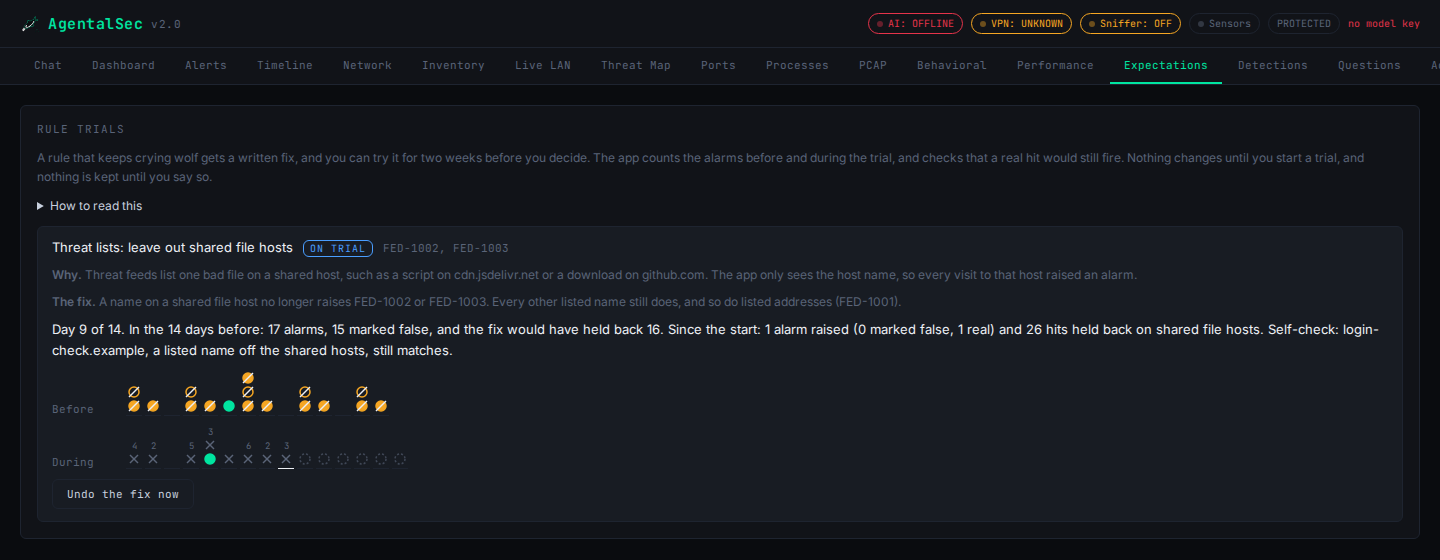
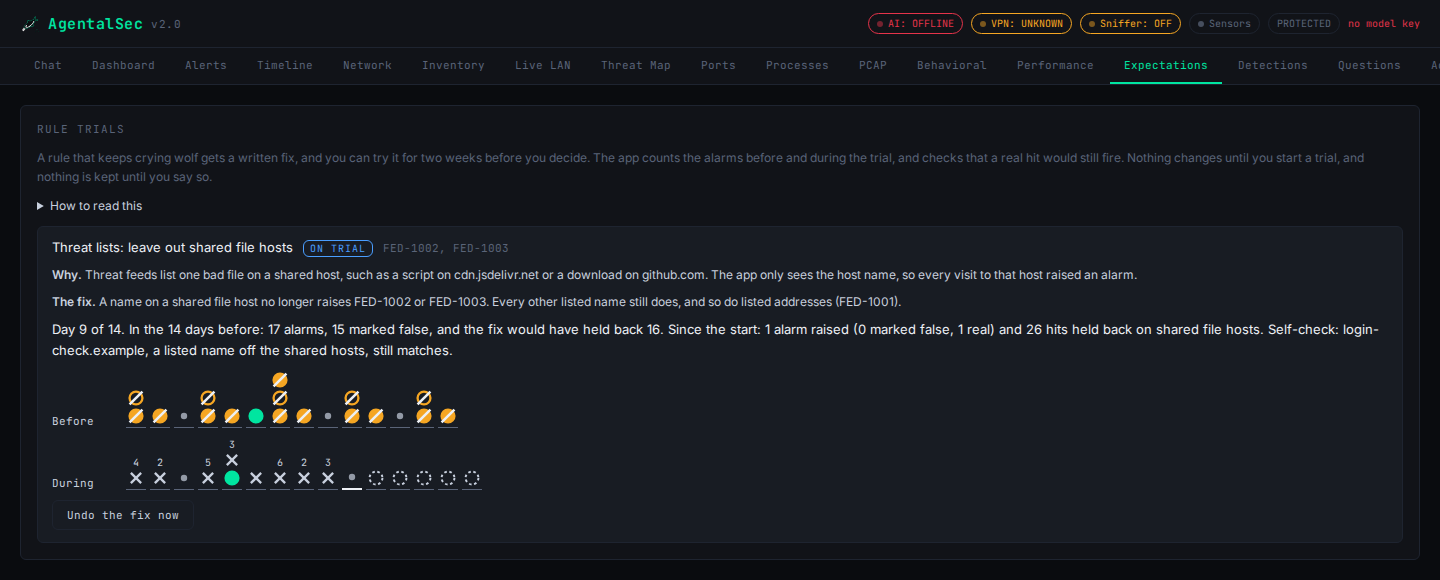
Rule trials: bigger, brighter day marks and readable text
- The alarm dots, the line through a held-back alarm, the crosses and
  the future-day rings are drawn larger and bolder.
- A day when nothing fired shows a small grey dot, so the rows read as
  days; the legend says so.
- The Why and The fix text, the Before and During labels and the held
  counts use the normal text colour instead of dim grey.
- Screenshot in docs/TOUR.md updated.

diff --git a/ui/index.html b/ui/index.html
@@ -1663,11 +1663,13 @@
   .trial.st-kept .trial-pill { color: var(--green); border-color: var(--green); }
   .trial-rules { font-family: var(--mono); font-size: 11px; color: var(--text-dim); }
   .trial-row { display: grid; grid-template-columns: 64px 1fr; gap: 10px; align-items: end; margin-top: 10px; }
-  .trial-days { display: flex; gap: 3px; align-items: flex-end; flex-wrap: wrap; }
-  .trial-day { display: inline-flex; flex-direction: column-reverse; align-items: center; min-width: 16px;
-               min-height: 18px; border-bottom: 1px solid var(--border); padding-bottom: 2px; }
-  .trial-day.today { border-bottom-color: var(--text-hi); }
-  .trial-more { font-family: var(--mono); font-size: 9px; color: var(--text-dim); }
+  .trial-days { display: flex; gap: 4px; align-items: flex-end; flex-wrap: wrap; }
+  .trial-day { display: inline-flex; flex-direction: column-reverse; align-items: center; min-width: 20px;
+               min-height: 18px; border-bottom: 1px solid var(--text-dim); padding-bottom: 2px; }
+  .trial-day.today { border-bottom: 2px solid var(--text-hi); }
+  .trial .exp-note { color: var(--text); }
+  .trial-row .fa-day { color: var(--text); }
+  .trial-more { font-family: var(--mono); font-size: 10px; color: var(--text); }
   .trial .btn { margin-top: 10px; margin-right: 6px; }
   @media (prefers-reduced-motion: reduce) {
     .exp-ring, .exp-dot-broken, .wall-dot { animation: none !important; }
@@ -2679,8 +2681,8 @@
         <summary>How to read this</summary>
         Each column is a day, today on the right. A filled amber dot is an alarm you marked false, a green
         dot one you marked real, and an amber ring one still waiting for your verdict. A line through a dot
-        means the fix holds that alarm back. During the trial, a grey cross is a hit the fix held back, and
-        a dashed ring is a day still to come.
+        means the fix holds that alarm back. A small grey dot is a day when nothing fired. During the trial,
+        a cross is a hit the fix held back, and a dashed ring is a day still to come.
       </details>
       <div id="trials"></div>
     </div>
@@ -8744,25 +8746,28 @@ function _trialDot(d) {
   const tip = `${d.rule}, ${d.entity}: ${(d.names || []).join(', ')}. `
     + (d.verdict ? 'Verdict: ' + (FA_WORD[d.verdict] || d.verdict) + '. ' : 'No verdict yet. ')
     + (d.held ? 'The fix holds this back.' : 'The fix lets this through.');
-  return `<svg width="14" height="14" viewBox="0 0 14 14"><title>${esc(tip)}</title>`
-    + `<circle cx="7" cy="7" r="5" fill="${fill}" stroke="${stroke}" stroke-width="1.5"${dash}/>`
-    + (d.held ? '<line x1="2" y1="12" x2="12" y2="2" stroke="var(--text-hi)" stroke-width="1.5"/>' : '')
+  return `<svg width="18" height="18" viewBox="0 0 14 14"><title>${esc(tip)}</title>`
+    + `<circle cx="7" cy="7" r="5" fill="${fill}" stroke="${stroke}" stroke-width="1.8"${dash}/>`
+    + (d.held ? '<line x1="2" y1="12" x2="12" y2="2" stroke="var(--text-hi)" stroke-width="2"/>' : '')
     + `</svg>`;
 }
 
 function _trialCol(day, during, today) {
   const label = new Date(day.day + 'T12:00:00').toLocaleDateString(undefined, { day: 'numeric', month: 'short' });
   if (during && day.future) {
-    return `<span class="trial-day" title="${esc(label)}, still to come"><svg width="14" height="14" viewBox="0 0 14 14">`
-      + `<circle cx="7" cy="7" r="5" fill="none" stroke="var(--text-dim)" stroke-width="1.5" stroke-dasharray="2 2" opacity="0.6"/></svg></span>`;
+    return `<span class="trial-day" title="${esc(label)}, still to come"><svg width="18" height="18" viewBox="0 0 14 14">`
+      + `<circle cx="7" cy="7" r="5" fill="none" stroke="var(--text)" stroke-width="1.5" stroke-dasharray="2 2"/></svg></span>`;
   }
   const dots = day.dots || [];
-  let inner = dots.slice(0, 5).map(_trialDot).join('');
+  // A day when nothing fired gets a small grey dot, so the row reads as days.
+  let inner = dots.length ? dots.slice(0, 5).map(_trialDot).join('')
+    : (during && day.held ? '' : '<svg width="18" height="18" viewBox="0 0 14 14"><title>Nothing fired</title>'
+       + '<circle cx="7" cy="7" r="2.5" fill="var(--text)" opacity="0.7"/></svg>');
   if (dots.length > 5) inner += `<span class="trial-more">+${dots.length - 5}</span>`;
   if (during && day.held) {
-    inner += `<svg width="14" height="14" viewBox="0 0 14 14"><title>${_n(day.held, 'hit')} held back</title>`
-      + '<line x1="3" y1="3" x2="11" y2="11" stroke="var(--text-dim)" stroke-width="1.5"/>'
-      + '<line x1="11" y1="3" x2="3" y2="11" stroke="var(--text-dim)" stroke-width="1.5"/></svg>'
+    inner += `<svg width="18" height="18" viewBox="0 0 14 14"><title>${_n(day.held, 'hit')} held back</title>`
+      + '<line x1="3" y1="3" x2="11" y2="11" stroke="var(--text)" stroke-width="1.8"/>'
+      + '<line x1="11" y1="3" x2="3" y2="11" stroke="var(--text)" stroke-width="1.8"/></svg>'
       + (day.held > 1 ? `<span class="trial-more">${Number(day.held)}</span>` : '');
   }
   return `<span class="trial-day${day.day === today ? ' today' : ''}" title="${esc(label)}">${inner}</span>`;
